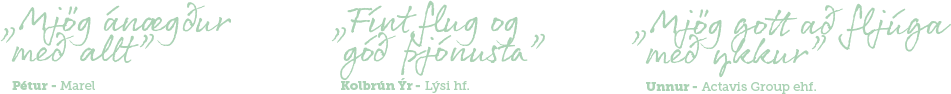
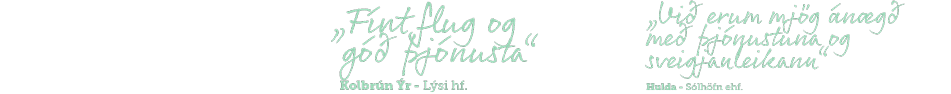
quotes better quality

diff --git a/index.html b/index.html
@@ -105,7 +105,7 @@
 
                 <h2>Árið 2012 flaug WOW air með um <b>90 þúsund</b> gesti, í ár stefnir gestafjöldinn í <b>450 þúsund</b> og árið 2014 er stefnan að fljúga með <br>yfir <b>700 þúsund gesti</b>. </h2>
 
-                <div class="quotes" style="display:none;"></div>
+                <div class="quotes"></div>
 
                 <div class="indent">
                     <h2>Í vetur fljúgum við <b>tuttugu og níu sinnum</b><br>í viku til vinsælustu áfangastaðanna og í maí bætist Stokkhólmur við.</h2>
